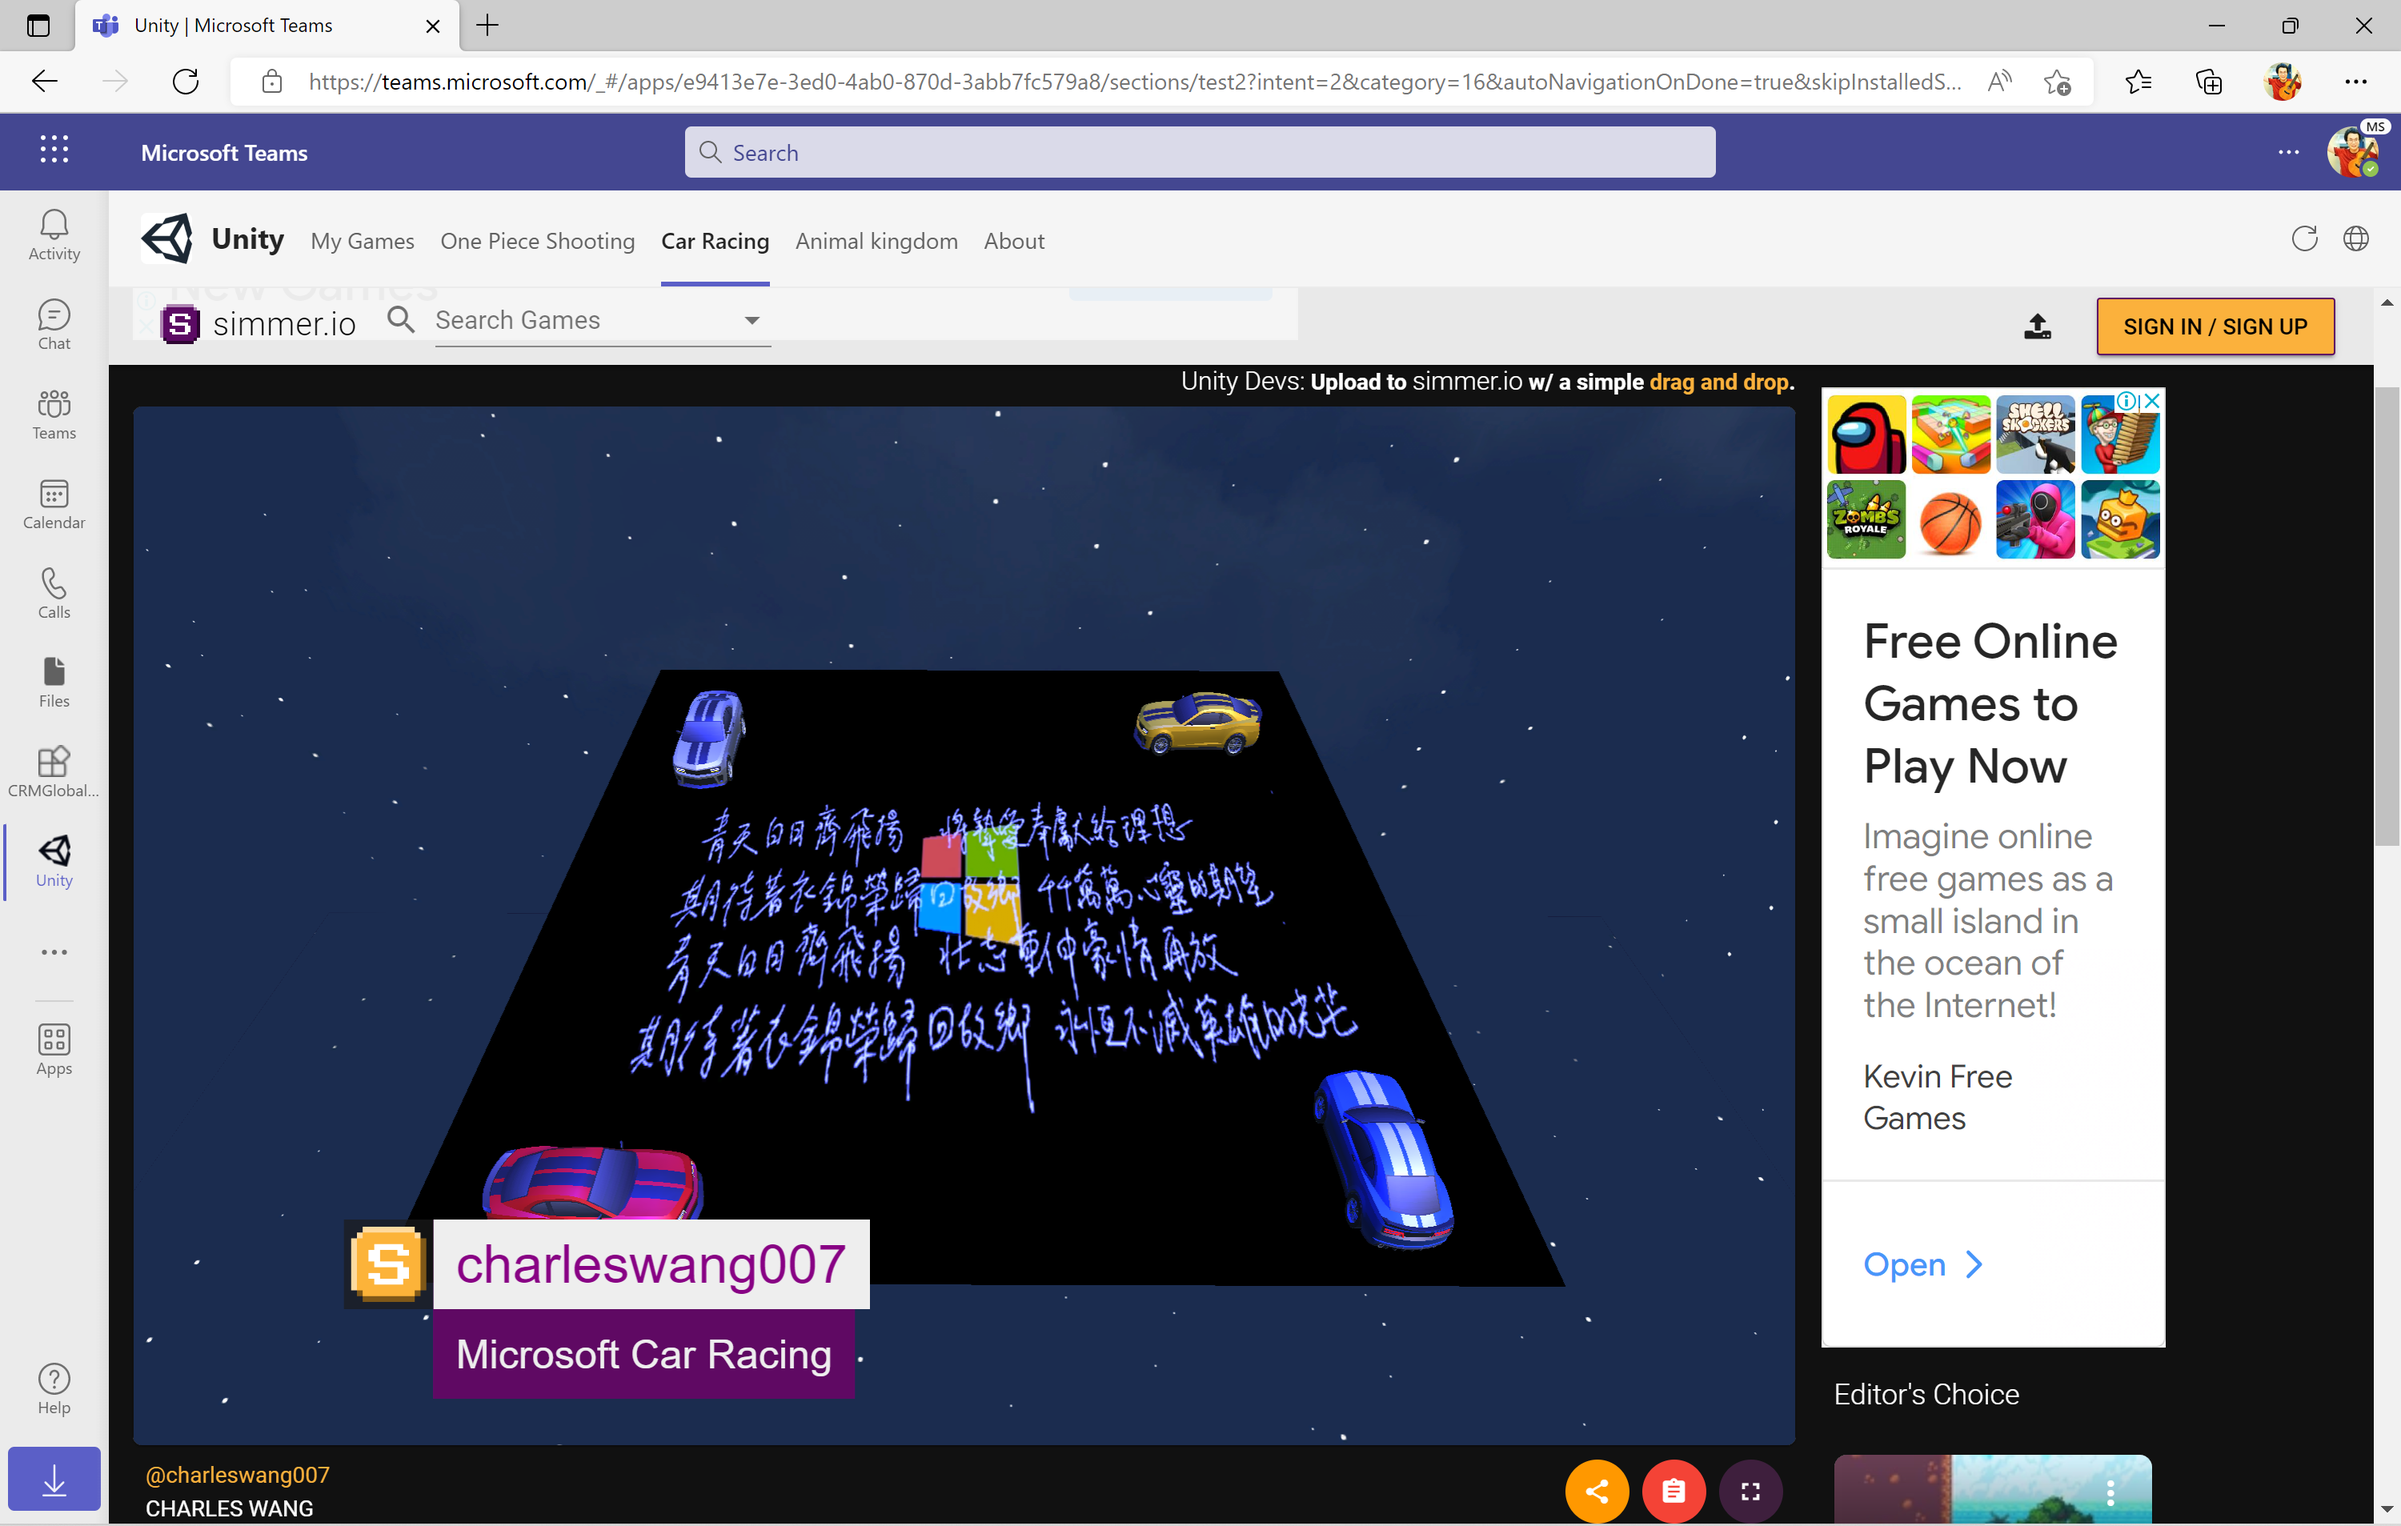
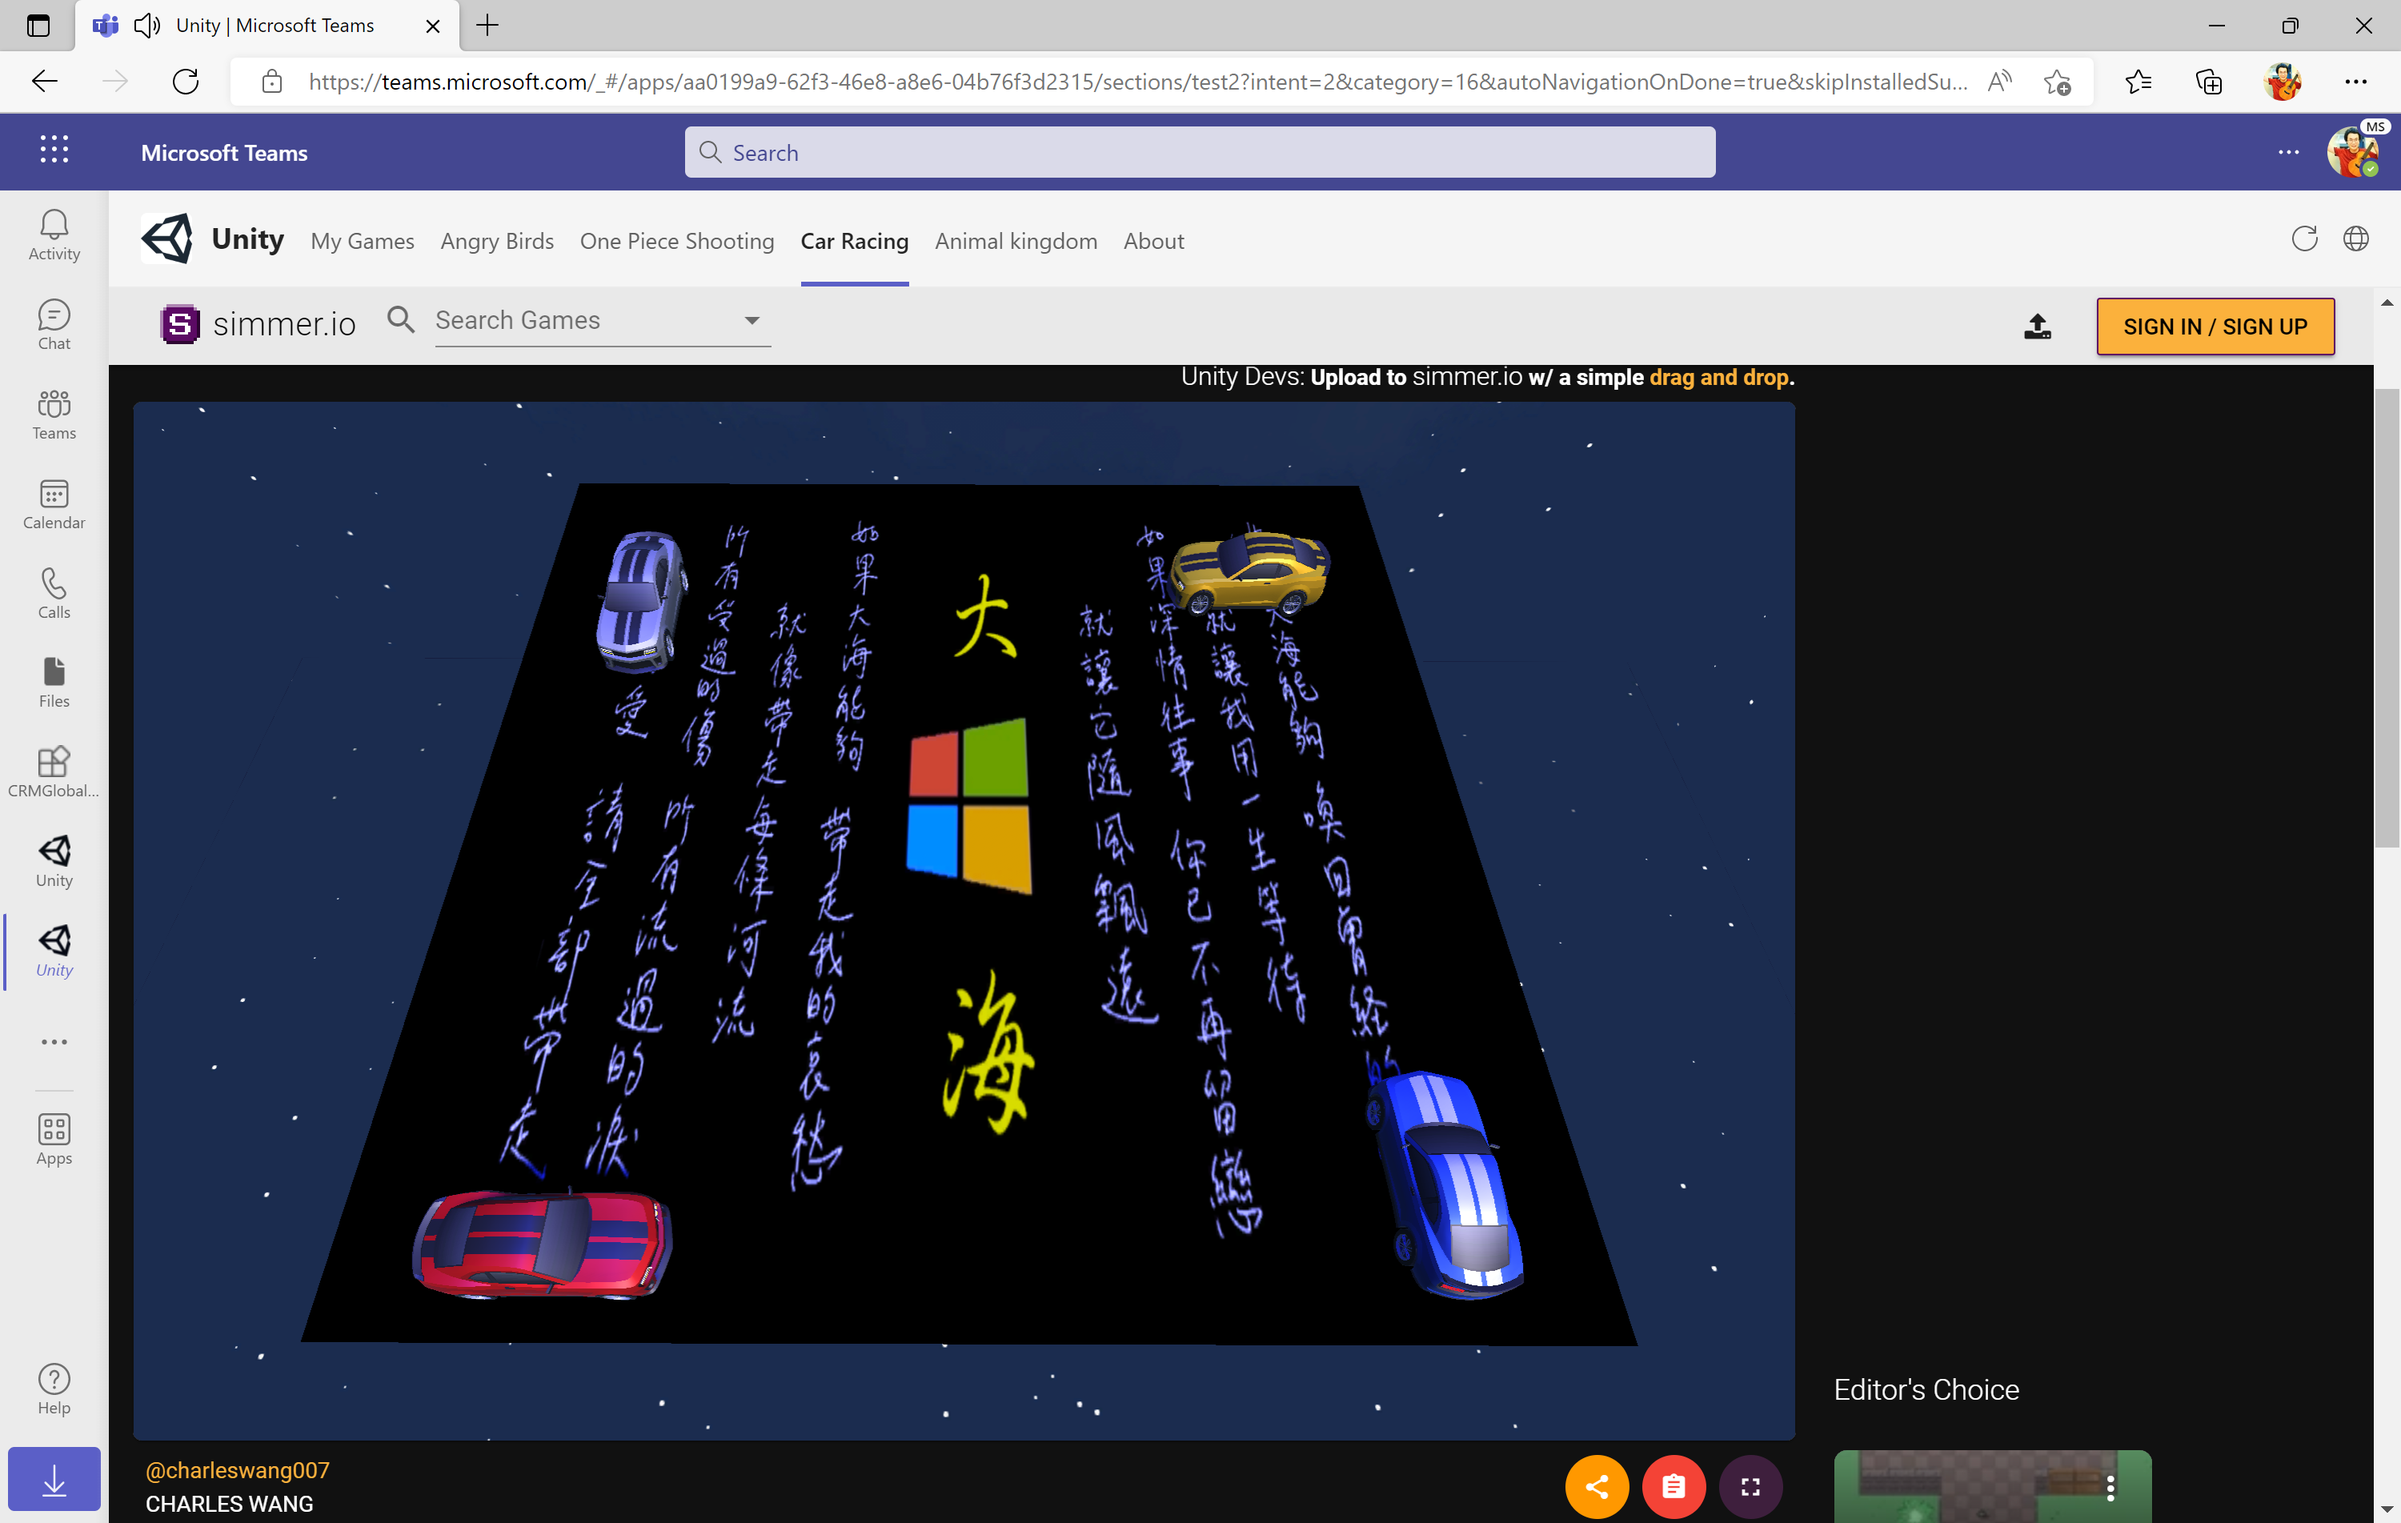
small fix

diff --git a/charlesteamapp1/tabs/src/components/sample/Welcome.jsx b/charlesteamapp1/tabs/src/components/sample/Welcome.jsx
@@ -17,11 +17,12 @@ export function Welcome(props) {
       azure: "Azure environment",
     }[environment] || "local environment";
 
-  const steps = ["local", "azure", "publish"];
+  const steps = ["test", "local", "azure", "publish"];
   const friendlyStepsName = {
-    local: "1. One Piece Shooting",
-    azure: "2. Car Racing",
-    publish: "3. Animal Kingdom",
+    test: "1. Angry Birds",
+    local: "2. One Piece Shooting",
+    azure: "3. Car Racing",
+    publish: "4. Animal Kingdom",
   };
   const [selectedMenuItem, setSelectedMenuItem] = useState("local");
   const items = steps.map((step) => {
@@ -40,6 +41,12 @@ export function Welcome(props) {
         <p className="center">Your app is running in your {friendlyEnvironmentName}</p>
         <Menu defaultActiveIndex={0} items={items} underlined secondary />
         <div className="sections">
+          {selectedMenuItem === "test" && (
+            <div>
+              <EditCode />
+              <AddSSO />
+            </div>
+          )}
           {selectedMenuItem === "local" && (
             <div>
               <EditCode />
